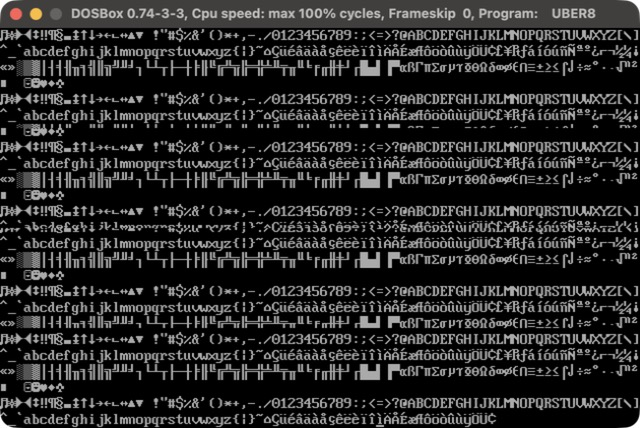
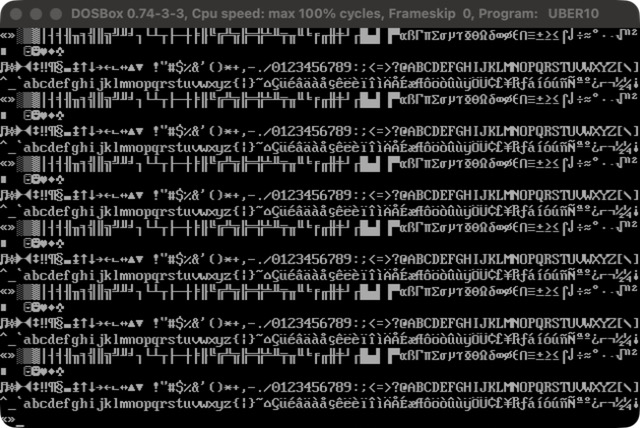
Fix: scroll at a readable pace (HLT per timer tick, 8 codes per tick); 10 bytes; rename to UBER10

diff --git a/tests/test_demo.py b/tests/test_demo.py
@@ -70,19 +70,28 @@ class Run:
             started = True; used += n
         return self
 
-# ------------------------------------------------------------------- UBER8
-print("== UBER8.COM (8-byte class) ==")
-r = Run("UBER8.COM").run(instructions=6000)
-check(len(r.com) <= 8, f"fits the 8-byte class ({len(r.com)} bytes)")
-check(len(r.com) <= 5, "and has not grown past its 5-byte budget")
+# ------------------------------------------------------------------- UBER10
+from unicorn import UC_HOOK_CODE
+print("== UBER10.COM (16-byte class) ==")
+r = Run("UBER10.COM")
+check(len(r.com) <= 16, f"fits the 16-byte class ({len(r.com)} bytes)")
+check(len(r.com) <= 10, "and has not grown past its 10-byte budget")
+check(r.com[0] == 0xF4, "starts with HLT (sleep until the next timer tick)")
+r.uc.mem_write(LIN + 0x100, b"\x90")                     # emulate the timer tick: HLT -> NOP, counted below
+ticks = []
+r.uc.hook_add(UC_HOOK_CODE, lambda uc, addr, size, ud: ticks.append(len(r.chars)), None, LIN + 0x100, LIN + 0x100)
+r.run(instructions=20000)
 check(not r.modes, "sets no video mode: it relies on DOS's default 80x25 text mode")
-check(len(r.chars) > 1500, f"prints a stream of characters through INT 29h ({len(r.chars)} in 6000 instructions)")
+check(len(ticks) > 100, f"waits for a tick before every burst ({len(ticks)} ticks)")
+bursts = [b - a for a, b in zip(ticks, ticks[1:])]
+check(set(bursts) == {8}, f"prints exactly 8 characters per tick (bursts {sorted(set(bursts))})")
 check(r.chars[0] == 0 and all((b - a) % 256 == 1 for a, b in zip(r.chars, r.chars[1:])),
       "starts at code 0 (AX = 0 at entry) and counts up by one, wrapping at 256")
 check(set(r.chars[:256]) == set(range(256)), "the first 256 characters are all 256 distinct codes")
 check(7 in r.chars[:256], "includes BEL (07h): it beeps")
+rate = 8 * 18.2
+check(100 < rate < 200, f"at the 18.2 Hz timer that is {rate:.0f} characters a second: scrolls, and readable")
 check(not r.unmapped, "touches no memory outside the program segment")
-
 
 print("\nRESULT:", "ALL PASS" if not fails else f"{len(fails)} FAILED:\n  - " + "\n  - ".join(fails))
 sys.exit(1 if fails else 0)

diff --git a/README.md b/README.md
@@ -1,24 +1,24 @@
-# UBER8
+# UBER10
 
-**A 5-byte DOS demo: every CP437 glyph, scrolling, with sound.**
+**A 10-byte DOS demo: the 256 CP437 glyphs, scrolling at a readable pace, with sound.**
 
-[![CI](https://github.com/djayuffe/uber8-dos-demo/actions/workflows/ci.yml/badge.svg)](https://github.com/djayuffe/uber8-dos-demo/actions/workflows/ci.yml)
+[![CI](https://github.com/djayuffe/uber10-dos-demo/actions/workflows/ci.yml/badge.svg)](https://github.com/djayuffe/uber10-dos-demo/actions/workflows/ci.yml)
 
-![UBER8.COM running in DOSBox](screenshot.jpg)
+![UBER10.COM running in DOSBox](screenshot.jpg)
 
-Five bytes. No setup, no assets, no libraries: it prints the 256 character codes in order, forever. Smileys, card suits, punctuation, digits, letters, box drawing, with CR/LF, backspace and BEL (07h, which beeps) doing their usual things.
+Ten bytes. No setup, no assets, no libraries: it prints the 256 character codes in order, forever, eight per timer tick, so they scroll past at about two lines a second. Smileys, card suits, punctuation, digits, letters, box drawing, with CR/LF, backspace and BEL (07h, which beeps) doing their usual things.
 
 | | |
 |---|---|
-| Size | **5 bytes** (class 8; a build gate stops it growing back) |
+| Size | **10 bytes** (class 16; a build gate stops it growing back) |
 | CPU | any (8086 and up) |
 | Video | 80x25 text (the DOS default) |
 | Audio | the PC speaker beeps on BEL |
 
 ## Run it
 
-Download `UBER8.COM` from the [latest release](../../releases/latest) and run it in DOSBox
-(`mount c .`, `c:`, `UBER8.COM`), or build it:
+Download `UBER10.COM` from the [latest release](../../releases/latest) and run it in DOSBox
+(`mount c .`, `c:`, `UBER10.COM`), or build it:
 
 ```sh
 ./build.sh        # NASM build + size gates
@@ -28,33 +28,39 @@ Download `UBER8.COM` from the [latest release](../../releases/latest) and run it
 Needs [NASM](https://www.nasm.us/) and [DOSBox](https://www.dosbox.com/)
 (macOS: `brew install nasm` and `brew install --cask dosbox`).
 
-**UBER8 never exits** (there are no bytes left to read the keyboard): close DOSBox, or press Ctrl+F9 in it.
+**UBER10 never exits** (no bytes to spare for the keyboard): close DOSBox, or press Ctrl+F9 in it.
 
 ## How it works
 
 ```
+.m: hlt           ; F4        sleep until the next timer tick
 .l: int 29h       ; CD 29     DOS "fast console output": print AL
     inc ax        ; 40        next code
-    jmp short .l  ; EB FB
+    test al,7     ; A8 07     8 codes per tick
+    jnz .l        ; 75 F9
+    jmp short .m  ; EB F4
 ```
 
-DOS starts a `.COM` with `AX = 0` and the screen already in 80x25 text mode, so there is nothing to set
-up: `INT 29h` prints `AL` and `AX` just counts. The loop itself needs two bytes, the `INT` two and the
-increment one, which is why this is the floor for a printing loop. (The 8-byte version used `int 10h` to
-set 40x25 mode and stepped by 83 to look random; dropping both saves three bytes.) It relies on the DOS
-entry convention `AX = 0`.
+DOS starts a `.COM` with `AX = 0` and the screen already in 80x25 text mode, so there is nothing to set up:
+`INT 29h` prints `AL` and `AX` just counts.
+
+**Why it has a `HLT`.** The first version was the bare loop (`int 29h` / `inc ax` / `jmp`, 5 bytes). It was correct, but it prints
+as fast as the machine allows, so on a modern emulator it is an unreadable blur rather than a scroll. `HLT` sleeps until the
+next timer interrupt (18.2 Hz); printing 8 codes per tick gives about 145 characters a second, roughly two lines a second,
+which scrolls and can be read. The cost is 5 more bytes (`hlt`, `test al,7`, `jnz`, and a longer `jmp`). It relies on the
+DOS entry convention `AX = 0`.
 
 ## Testing
 
 `tests/run_tests.sh` runs the real binary in an emulated 16-bit CPU (Unicorn), entered the way DOS enters
-a `.COM`. It checks that the binary fits the 8-byte class, sets no video mode, prints code 0 first and then counts up by one (wrapping at 256, all 256 distinct codes, including BEL), and touches no memory outside its segment. CI runs it on every push; a `vX.Y.Z` tag publishes a release.
+a `.COM`. It checks that the binary fits its size gates, sets no video mode, waits for a timer tick before every burst and prints exactly 8 characters per tick (so about 145 a second at 18.2 Hz), starts at code 0 and counts up by one wrapping at 256 (all 256 distinct codes, including BEL), and touches no memory outside its segment. CI runs it on every push; a `vX.Y.Z` tag publishes a release.
 
 ## Related
 
 Part of a small family of DOS size-coding demos, each in its own repository:
-[uber8-dos-demo](https://github.com/djayuffe/uber8-dos-demo) (5 bytes),
+[uber10-dos-demo](https://github.com/djayuffe/uber10-dos-demo) (10 bytes),
 [uber128-dos-demo](https://github.com/djayuffe/uber128-dos-demo) (77 bytes),
-[uber256-rotozoomer](https://github.com/djayuffe/uber256-rotozoomer) (171 bytes),
+[uber256-dos-demo](https://github.com/djayuffe/uber256-dos-demo) (171 bytes),
 [uber256-dos-intro](https://github.com/djayuffe/uber256-dos-intro) (131 bytes), and the big one,
 [uber40k-dos-demo](https://github.com/djayuffe/uber40k-dos-demo) (a 20-scene show with a 3D engine and
 Sound Blaster music). The index is [uber-tiny-demos](https://github.com/djayuffe/uber-tiny-demos).

diff --git a/CHANGELOG.md b/CHANGELOG.md
@@ -1,13 +1,24 @@
 # Changelog
 
 Pushing a `vX.Y.Z` tag runs `.github/workflows/release.yml`, which builds, tests and attaches
-`UBER8.COM` to a GitHub release using that version's section below.
+`UBER10.COM` to a GitHub release using that version's section below.
+
+## [1.1.0] - 2026-10-10
+
+### Changed
+- **Fixed: it scrolled too fast to read.** v1.0.0 (`UBER8.COM`, 5 bytes) printed as fast as the
+  machine allows, which on a modern emulator is an unreadable blur. It now sleeps with `HLT` until
+  each 18.2 Hz timer tick and prints 8 codes per tick: about two lines a second, readable.
+- **10 bytes** (was 5), so the repository is renamed `uber8-dos-demo` -> `uber10-dos-demo`, the
+  binary `UBER8.COM` -> `UBER10.COM`, and its size class is now 16 bytes (a 10-byte program no
+  longer fits the 8-byte class). GitHub redirects the old URL.
+- The test checks the pacing: one tick before every burst, exactly 8 characters per burst.
 
 ## [1.0.0] - 2026-10-10
 
 First release as its own repository (it started life in
 [uber-tiny-demos](https://github.com/djayuffe/uber-tiny-demos), where it went 8 -> 5 bytes).
 
-- **UBER8.COM**, 5 bytes: every CP437 glyph, scrolling, with sound.
+- **UBER8.COM (5 bytes) (5 bytes)**, 5 bytes: every CP437 glyph, scrolling, with sound.
 - `build.sh` enforces the 8-byte class and the 5-byte budget; `tests/run_tests.sh` runs it in an
   emulated 16-bit CPU; CI and tag-driven releases on GitHub Actions.
